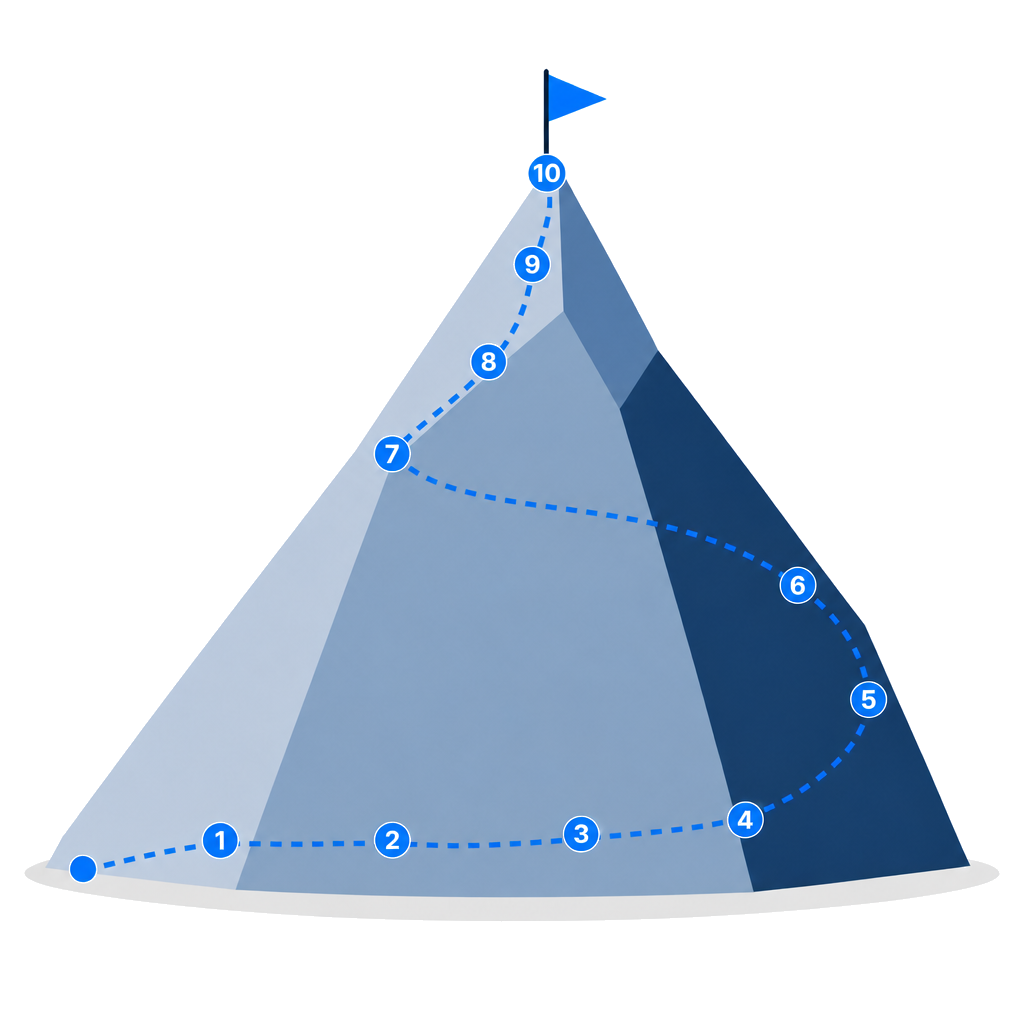
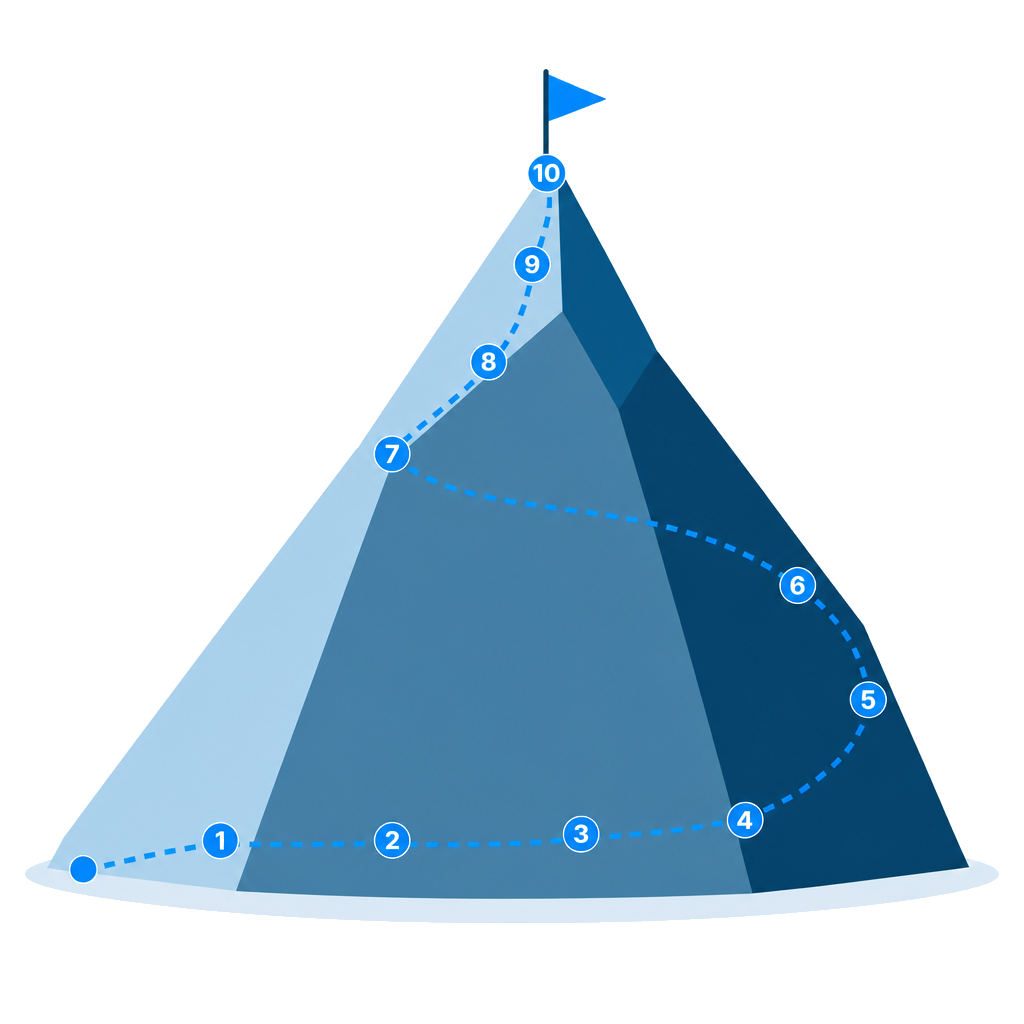
Recolor Summit mountain to match site theme blues
Update the hero mountain palette to PyPath ink/line sky blues so it
fits the landing page instead of gray-blue tones.

diff --git a/index.html b/index.html
@@ -117,7 +117,7 @@
             <!-- Previous mountain look; stops numbered 1-10 in trail order; transparent -->
             <img
               class="home-summit__art"
-              src="assets/img/summit.png"
+              src="assets/img/summit.png?v=theme1"
               width="1024"
               height="1024"
               alt="The Summit: a mountain trail with ten unit stops numbered 1 through 10"
